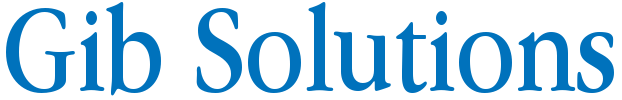
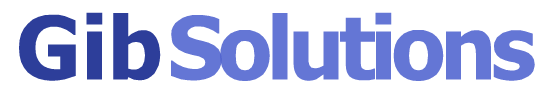
Añadiendo cambios

diff --git a/index.html b/index.html
@@ -21,7 +21,7 @@
     <!--Navbar-->
     <header class="header">
       <nav id="navbar" class="navbar navbar-light navbar-expand-lg nav-margin-btn-0 navbar-fixed-top padding-nav">
-        <a class="navbar-brand padding-0 logo-gib" href="index.html"><img src="assets/images/logo-gs.png" alt="Logo Gib-Solutions" class="img-fluid d-inline-block align-top" style="width:inherit; height:100%;"></a>
+        <a class="navbar-brand padding-0 logo-gib" href="index.html"><img src="assets/images/gib.png" alt="Logo Gib-Solutions" class="img-fluid d-inline-block align-top" style="width:inherit; height:100%;"></a>
         <button class="navbar-toggler border-none" type="button" data-toggle="collapse" data-target="#navbarSupportedContent" aria-controls="navbarSupportedContent" aria-expanded="false" aria-label="Toggle navigation">
           <span class="navbar-toggler-icon"></span>
         </button>
@@ -38,7 +38,7 @@
               </div>
             </li>
             <li class="nav-item">
-              <a class="nav-link blue" href="views/services-partners.html"><strong>Nuestros servicios y socio</strong></a>
+              <a class="nav-link blue" href="views/services-partners.html"><strong>Nuestros servicios y socios</strong></a>
             </li>
             <li class="nav-item">
               <a class="nav-link blue" href="#contact-us"><strong>Contáctenos</strong></a>
@@ -54,7 +54,7 @@
       <div class="container-fluid">
         <div class="row"> <!--row-margin-0-->
           <div class="col-12 container-padding-0" style="padding: 0;">
-            <div id="carouselExampleFade" class="carousel slide carousel-fade" data-ride="carousel">
+            <div id="carouselExampleFade" class="carousel slide carousel-fade" data-ride="carousel" data-interval="2000">
               <div class="carousel-inner">
                 <div class="carousel-item active height-85">
                   <img src="assets/images/monitoreo1.jpg" alt="imagen 1" class="d-block w-100 img-fluid filter-image-responsive filter-img">
@@ -63,7 +63,7 @@
                   </div>
                 </div>
                 <div class="carousel-item height-85">
-                  <img src="assets/images/monitoreo3.jpg" alt="imagen 2" class="d-block w-100 img-fluid filter-image-responsive filter-img">
+                  <img src="assets/images/pandora-slider.jpg" alt="imagen 2" class="d-block w-100 img-fluid filter-image-responsive filter-img">
                   <div class="carousel-caption d-none d-md-block">
                     <h2 class="text-shadow">La herramienta de monitorización</h2>
                     <h3 class="text-shadow">TODO-EN-UNO</h3>

diff --git a/views/services-partners.html b/views/services-partners.html
@@ -22,7 +22,7 @@
     <!--Navbar-->
     <header class="header">
       <nav id="navbar" class="navbar navbar-light navbar-expand-lg nav-margin-btn-0 navbar-fixed-top padding-nav">
-        <a class="navbar-brand padding-0 logo-gib" href="../index.html"><img src="../assets/images/logo-gs.png" alt="Logo Gib-Solutions" class="img-fluid d-inline-block align-top" style="width:inherit; height:100%;"></a>
+        <a class="navbar-brand padding-0 logo-gib" href="../index.html"><img src="../assets/images/gib.png" alt="Logo Gib-Solutions" class="img-fluid d-inline-block align-top" style="width:inherit; height:100%;"></a>
         <button class="navbar-toggler border-none" type="button" data-toggle="collapse" data-target="#navbarSupportedContent" aria-controls="navbarSupportedContent" aria-expanded="false" aria-label="Toggle navigation">
           <span class="navbar-toggler-icon"></span>
         </button>

diff --git a/css/main.css b/css/main.css
@@ -89,8 +89,8 @@ img.filter-img{
 
 /*Estilos para navbar*/
 a.navbar-brand.padding-0.logo-gib{
-  width: 5rem;
-  height: 4rem;
+  width: 7rem;
+  height: 3rem;
 }
 
 nav{
@@ -213,8 +213,8 @@ footer{
   }
 
   a.navbar-brand.padding-0.logo-gib{
-    width: 5rem;
-    height: 5rem;
+    width: 8rem;
+    height: 4rem;
   }
 
   .padding-top-header-ul{
@@ -242,5 +242,9 @@ footer{
 
   .margin-top-70{
     margin-top: 70px;
+  }
+  a.navbar-brand.padding-0.logo-gib{
+    width: 7rem;
+    height: 3.5rem;
   }
 }
